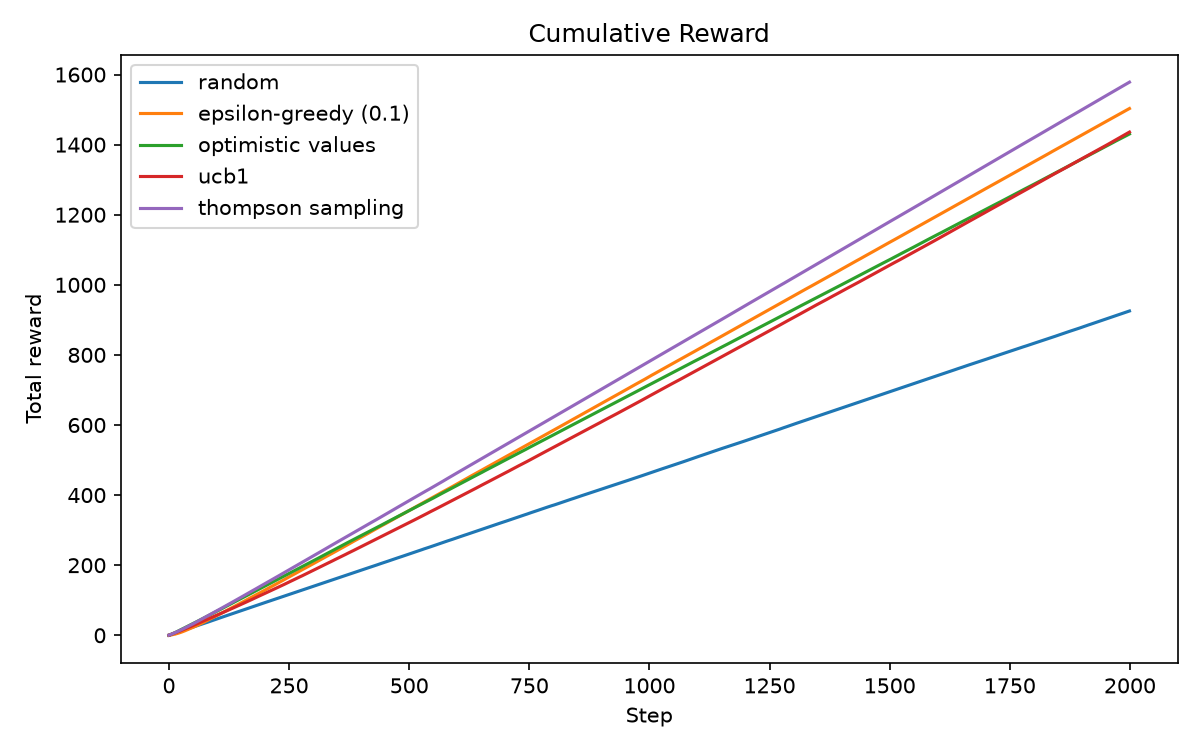
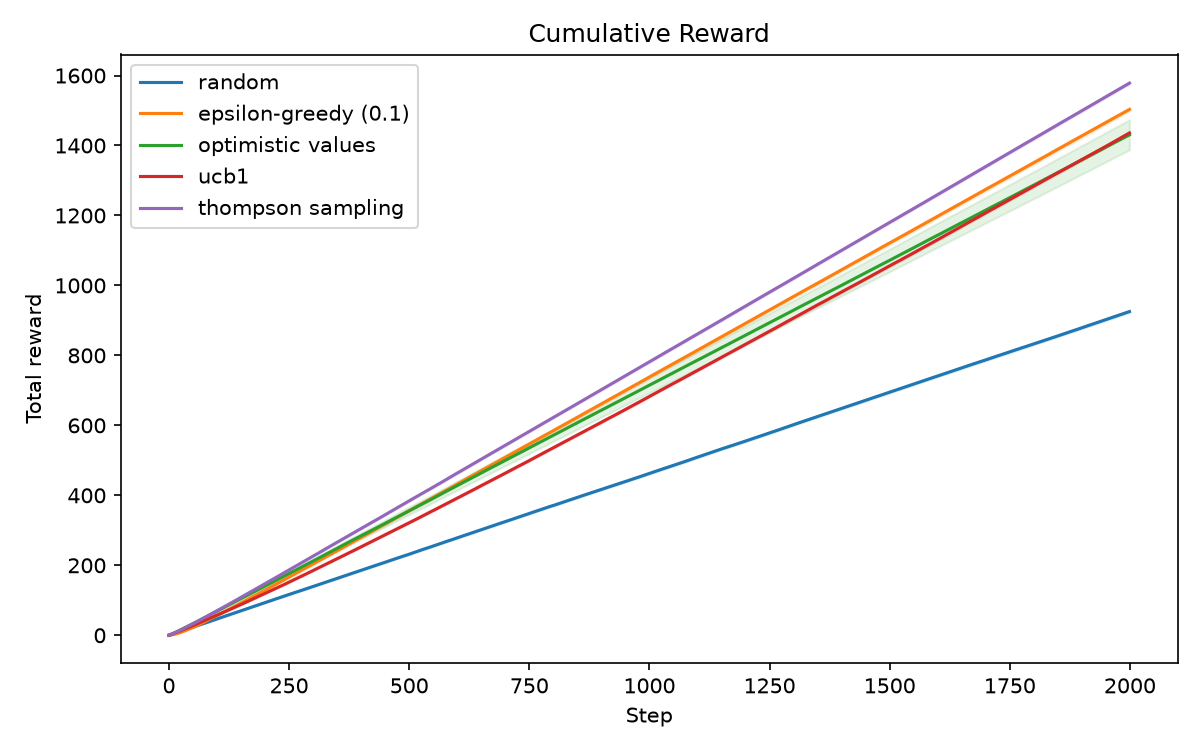
add cumulative reward intervals

diff --git a/src/ml_systems_lab/bandits/experiment.py b/src/ml_systems_lab/bandits/experiment.py
@@ -137,18 +137,25 @@ def run_comparison(
         reward_mean, reward_lower, reward_upper = mean_confidence_interval(rewards)
         optimal_mean, optimal_lower, optimal_upper = mean_confidence_interval(optimal_actions)
         regret_mean, regret_lower, regret_upper = mean_confidence_interval(regret)
-        cumulative_reward_mean = np.mean(total_reward, axis=0)
+        cumulative_reward_mean, cumulative_reward_lower, cumulative_reward_upper = (
+            mean_confidence_interval(total_reward)
+        )
         final_reward = np.mean(rewards[:, -100:], axis=1)
         final_optimal = np.mean(optimal_actions[:, -100:], axis=1)
         reward_value, reward_final_lower, reward_final_upper = _scalar_interval(final_reward)
         optimal_value, optimal_final_lower, optimal_final_upper = _scalar_interval(final_optimal)
         regret_value, regret_final_lower, regret_final_upper = _scalar_interval(regret[:, -1])
+        cumulative_value, cumulative_final_lower, cumulative_final_upper = _scalar_interval(
+            total_reward[:, -1]
+        )
 
         results[name] = {
             "average_reward": average_reward(rewards),
             "average_reward_lower": reward_lower,
             "average_reward_upper": reward_upper,
             "cumulative_reward": cumulative_reward_mean,
+            "cumulative_reward_lower": cumulative_reward_lower,
+            "cumulative_reward_upper": cumulative_reward_upper,
             "optimal_action_rate": optimal_action_rate(actions, optimal_action),
             "optimal_action_rate_lower": optimal_lower,
             "optimal_action_rate_upper": optimal_upper,
@@ -158,7 +165,9 @@ def run_comparison(
             "final_average_reward": reward_value,
             "final_average_reward_lower": reward_final_lower,
             "final_average_reward_upper": reward_final_upper,
-            "final_cumulative_reward": float(np.mean(total_reward[:, -1])),
+            "final_cumulative_reward": cumulative_value,
+            "final_cumulative_reward_lower": cumulative_final_lower,
+            "final_cumulative_reward_upper": cumulative_final_upper,
             "final_optimal_action_rate": optimal_value,
             "final_optimal_action_rate_lower": optimal_final_lower,
             "final_optimal_action_rate_upper": optimal_final_upper,

diff --git a/tests/test_bandits.py b/tests/test_bandits.py
@@ -259,6 +259,8 @@ def test_run_comparison_returns_expected_shapes():
         "average_reward_lower",
         "average_reward_upper",
         "cumulative_reward",
+        "cumulative_reward_lower",
+        "cumulative_reward_upper",
         "optimal_action_rate",
         "optimal_action_rate_lower",
         "optimal_action_rate_upper",
@@ -269,6 +271,8 @@ def test_run_comparison_returns_expected_shapes():
         "final_average_reward_lower",
         "final_average_reward_upper",
         "final_cumulative_reward",
+        "final_cumulative_reward_lower",
+        "final_cumulative_reward_upper",
         "final_optimal_action_rate",
         "final_optimal_action_rate_lower",
         "final_optimal_action_rate_upper",
@@ -278,6 +282,7 @@ def test_run_comparison_returns_expected_shapes():
     }
     assert results["epsilon"]["average_reward"].shape == (12,)
     assert results["epsilon"]["average_reward_lower"].shape == (12,)
+    assert results["epsilon"]["cumulative_reward_upper"].shape == (12,)
     assert results["epsilon"]["cumulative_regret"].shape == (12,)
     assert results["epsilon"]["cumulative_regret_upper"].shape == (12,)
 

diff --git a/scripts/run_bandits.py b/scripts/run_bandits.py
@@ -64,6 +64,8 @@ def summarize(results: dict) -> dict[str, dict[str, float]]:
         "final_average_reward_lower",
         "final_average_reward_upper",
         "final_cumulative_reward",
+        "final_cumulative_reward_lower",
+        "final_cumulative_reward_upper",
         "final_optimal_action_rate",
         "final_optimal_action_rate_lower",
         "final_optimal_action_rate_upper",
@@ -85,6 +87,8 @@ def write_summary_csv(summary: dict, output_path: Path) -> None:
         "final_average_reward_lower",
         "final_average_reward_upper",
         "final_cumulative_reward",
+        "final_cumulative_reward_lower",
+        "final_cumulative_reward_upper",
         "final_optimal_action_rate",
         "final_optimal_action_rate_lower",
         "final_optimal_action_rate_upper",
